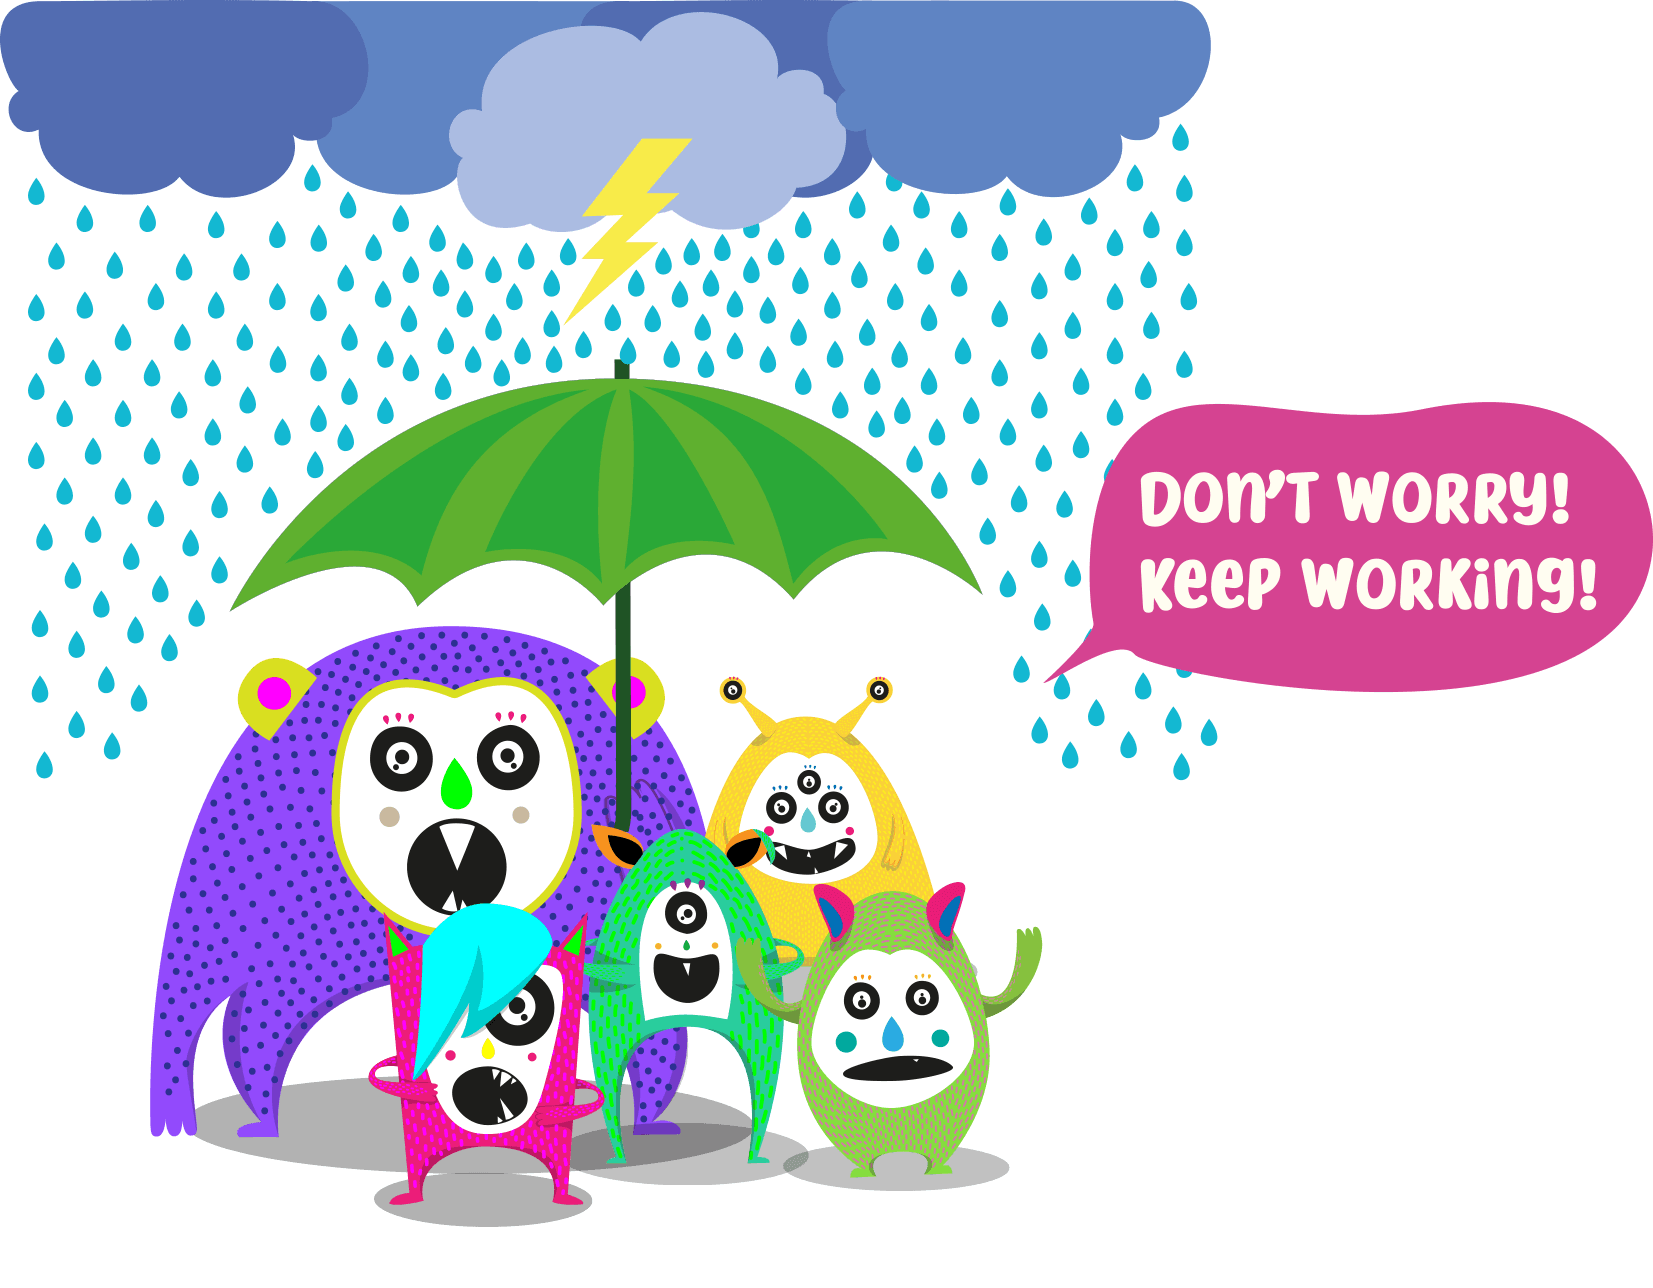
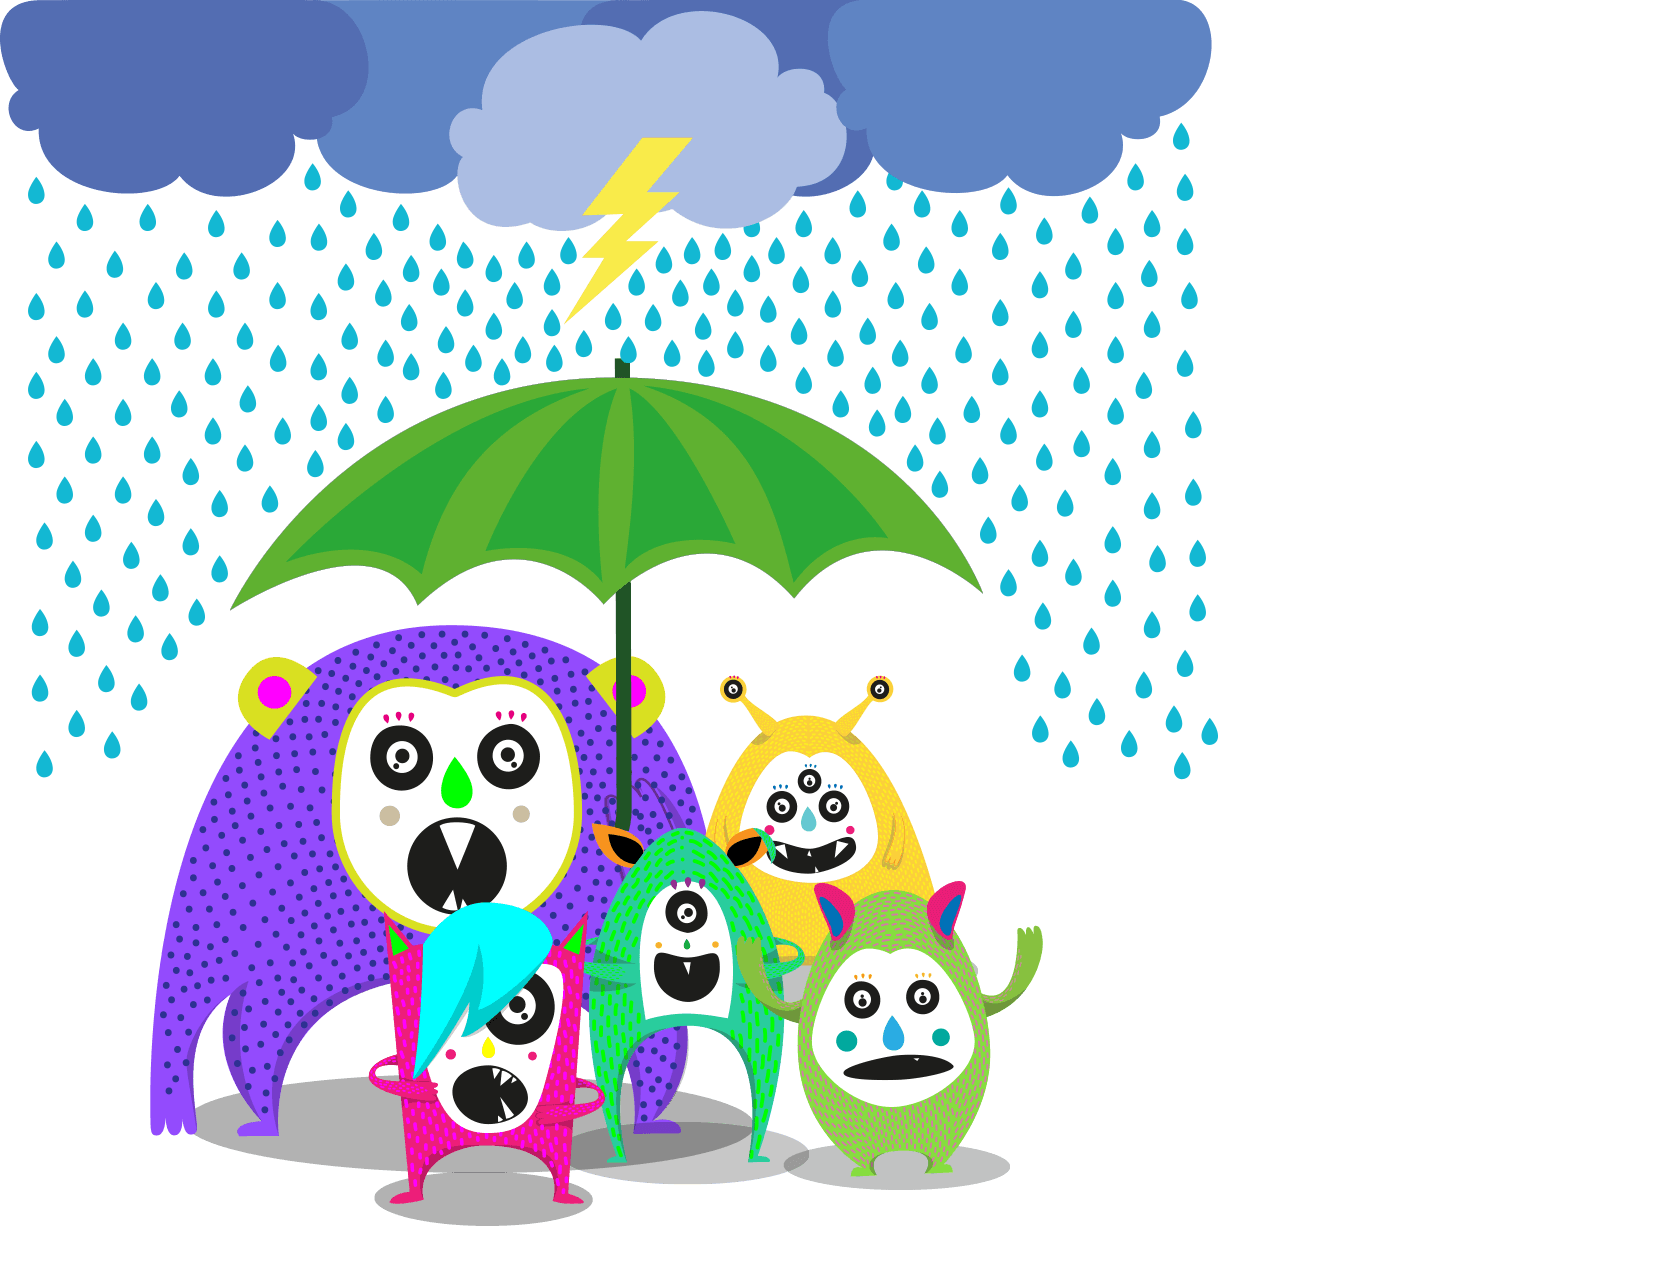
Final screen KO modifications WIP

diff --git a/style.js b/style.js
@@ -1136,11 +1136,12 @@ oxfordFlippedApp.text = {
 	modalDatepicker4 : 'Delete date',
 	dueDate : 'Due Date',
 	legend1 : 'This lesson is due in less than two days',
-	legend2 : "You didn't complete this lesson by the due date",
+	legend2 : 'You didn’t complete this lesson by the due date',
 	welldone : 'Well done!',
 	continue : 'Click on the arrow to continue',
 	premiumButton : 'Más recursos en Oxford Premium. ¡Accede ya!',
-	nomarketplaceresource: 'No hay ningún elemento que mostrar'
+	nomarketplaceresource: 'No hay ningún elemento que mostrar',
+	keepworking: 'Don’t worry, keep working to win stars!'
 }
 
 
@@ -2600,7 +2601,6 @@ oxfordFlippedApp.loadClassResources = function(updateHash) {
 		var unitNumber = $(this).attr('data-resource-unit-number'),
 				newHash = oxfordFlippedApp.config.tree[8].hash + unitNumber;
 
-		console.log(newHash);
 		window.location.hash = newHash;
 
 	});
@@ -2614,10 +2614,6 @@ oxfordFlippedApp.loadClassResourcesUnit = function(data,currentEpisode,updateHas
 			hash = oxfordFlippedApp.config.tree[currentIndex].hash;
 
 	var $resourceUnitWrapper = $('#oxfl-resources-unit-classresources');
-
-
-	console.log("LOAD RESOURCES OF UNIT " + currentEpisode);
-
 
 	// Load resources
 	var resourceList = document.createDocumentFragment();
@@ -3040,7 +3036,7 @@ oxfordFlippedApp.activityFinalScreenTest = function(currentSection) {
 				if (finalSlideLoaded) {
 					$('#oxfl-final-slide').remove();
 				}
-				console.log(grade);
+
 				if (grade > oxfordFlippedApp.config.minGrade && grade != '') {
 					if (isChallenge) {
 						var finalSlideBackground = $lastSlide.find('.image_slide').attr('src'),
@@ -3066,7 +3062,7 @@ oxfordFlippedApp.activityFinalScreenTest = function(currentSection) {
 					$('#oxfl-final-slide-stars').addClass('oxfl-final-slide-stars-'+totalStars);
 
 
-				} else {
+				} else { //FAIL
 					if (isChallenge) {
 						var finalSlideBackground = $lastSlide.find('.image_slide').attr('src'),
 								customAnimation = '<div id="lightnings"><div class="box-one"><div class="lightning-one"></div></div><div class="box-two"><div class="lightning-two"></div></div><div class="box-three"><div class="lightning-three"></div></div><div class="box-four"><div class="lightning-four"></div></div></div>',
@@ -3077,7 +3073,7 @@ oxfordFlippedApp.activityFinalScreenTest = function(currentSection) {
 						$lastSlide.addClass('oxfl-final-slide-challenge');
 					} else {
 						var customAnimation = '<div id="drops-falling"><i class="rain"></i><i class="rain"></i><i class="rain"></i><i class="rain"></i><i class="rain"></i><i class="rain"></i><i class="rain"></i><i class="rain"></i><i class="rain"></i><i class="rain"></i><i class="rain"></i><i class="rain"></i><i class="rain"></i><i class="rain"></i><i class="rain"></i><i class="rain"></i><i class="rain"></i><i class="rain"></i><i class="rain"></i><i class="rain"></i><i class="rain"></i><i class="rain"></i><i class="rain"></i><i class="rain"></i><i class="rain"></i><i class="rain"></i><i class="rain"></i><i class="rain"></i><i class="rain"></i><i class="rain"></i><i class="rain"></i><i class="rain"></i><i class="rain"></i><i class="rain"></i><i class="rain"></i><i class="rain"></i><i class="rain"></i><i class="rain"></i><i class="rain"></i><i class="rain"></i><i class="rain"></i><i class="rain"></i><i class="rain"></i><i class="rain"></i><i class="rain"></i><i class="rain"></i><i class="rain"></i><i class="rain"></i><i class="rain"></i><i class="rain"></i><i class="rain"></i><i class="rain"></i><i class="rain"></i><i class="rain"></i><i class="rain"></i><i class="rain"></i><i class="rain"></i><i class="rain"></i><i class="rain"></i><i class="rain"></i><i class="rain"></i><i class="rain"></i><i class="rain"></i><i class="rain"></i><i class="rain"></i><i class="rain"></i><i class="rain"></i><i class="rain"></i><i class="rain"></i><i class="rain"></i><i class="rain"></i><i class="rain"></i><i class="rain"></i><i class="rain"></i><i class="rain"></i><i class="rain"></i><i class="rain"></i><i class="rain"></i><i class="rain"></i><i class="rain"></i><i class="rain"></i><i class="rain"></i><i class="rain"></i><i class="rain"></i><i class="rain"></i><i class="rain"></i><i class="rain"></i><i class="rain"></i><i class="rain"></i><i class="rain"></i><i class="rain"></i><i class="rain"></i><i class="rain"></i><i class="rain"></i><i class="rain"></i><i class="rain"></i><i class="rain"></i><i class="rain"></i><i class="rain"></i><i class="rain"></i><i class="rain"></i><i class="rain"></i><i class="rain"></i><i class="rain"></i><i class="rain"></i><i class="rain"></i><i class="rain"></i><i class="rain"></i><i class="rain"></i><i class="rain"></i><i class="rain"></i><i class="rain"></i><i class="rain"></i><i class="rain"></i><i class="rain"></i><i class="rain"></i><i class="rain"></i><i class="rain"></i><i class="rain"></i><i class="rain"></i><i class="rain"></i><i class="rain"></i><i class="rain"></i><i class="rain"></i><i class="rain"></i><i class="rain"></i><i class="rain"></i><i class="rain"></i><i class="rain"></i><i class="rain"></i><i class="rain"></i><i class="rain"></i><i class="rain"></i><i class="rain"></i><i class="rain"></i><i class="rain"></i><i class="rain"></i><i class="rain"></i><i class="rain"></i><i class="rain"></i><i class="rain"></i><i class="rain"></i><i class="rain"></i><i class="rain"></i><i class="rain"></i><i class="rain"></i><i class="rain"></i><i class="rain"></i><i class="rain"></i><i class="rain"></i></div>',
-								finalSlideContent = '<div id="oxfl-final-slide">'+customAnimation+'<div class="oxfl-final-slide-stars" id="oxfl-final-slide-stars"></div><div class="oxfl-final-slide-fail-buttons"><button class="oxfl-button-bubble oxfl-button-bubble-2 oxfl-js-tryagain">'+oxfordFlippedApp.text.tryagain+'</button><div class="oxfl-separate-text">'+oxfordFlippedApp.text.or+'</div><button class="oxfl-button-bubble oxfl-button-bubble-3 oxfl-js-close-iframe-inside">'+oxfordFlippedApp.text.exit+'</button></div></div>';
+								finalSlideContent = '<div id="oxfl-final-slide">'+customAnimation+'<div class="oxfl-final-slide-stars" id="oxfl-final-slide-stars"></div><div class="oxfl-bubble-final-ko"><span>' + oxfordFlippedApp.text.keepworking + '</span></div><div class="oxfl-final-slide-fail-buttons"><button class="oxfl-button-bubble oxfl-button-bubble-2 oxfl-js-tryagain">'+oxfordFlippedApp.text.tryagain+'</button><div class="oxfl-separate-text">'+oxfordFlippedApp.text.or+'</div><button class="oxfl-button-bubble oxfl-button-bubble-3 oxfl-js-close-iframe-inside">'+oxfordFlippedApp.text.exit+'</button></div></div>';
 						$lastSlide.removeClass('oxfl-final-slide-challenge');
 					}
 					$lastSlide.addClass('oxfl-final-slide oxfl-final-slide-fail').find('.item-container').prepend(finalSlideContent);
@@ -3122,7 +3118,7 @@ oxfordFlippedApp.activityFinalScreenTest = function(currentSection) {
 
 			parent.top.oxfordFlippedApp.showIframeButton();
 			$('body').removeClass('oxfl-final-slide-on');
-			
+
 		}
 
 }

diff --git a/style.css b/style.css
@@ -3702,6 +3702,33 @@ body.body_clase.view-mode #actividad .oxfl-end-screen-tip {
     font-size: 1.8rem;
     max-width: 320px;
     margin-bottom: 10px; }
+body.body_clase.view-mode #actividad .oxfl-bubble-final-ko {
+  display: inline-flex;
+  vertical-align: middle;
+  justify-content: center;
+  flex-direction: column;
+  background: #d64391;
+  color: #ffffff;
+  font-family: "Myfrida", sans-serif;
+  font-size: 36px;
+  font-weight: bold;
+  border-radius: 40px 40px 40px 0;
+  max-width: 300px;
+  height: auto;
+  padding: 20px; }
+  body.body_clase.view-mode #actividad .oxfl-bubble-final-ko::before {
+    content: '';
+    display: block;
+    width: 0;
+    height: 0;
+    border-left: 20px solid transparent;
+    border-right: 20px solid transparent;
+    border-top: 20px solid #d64391;
+    position: absolute;
+    bottom: 0;
+    left: -20px;
+    transform: rotate(-45deg);
+    transform-origin: 0 0; }
 body.body_clase.view-mode.oxfl-final-slide-on .content-wrapper {
   padding-top: 0;
   padding-bottom: 0; }

diff --git a/scss/pages/_activities_final_2_test.scss b/scss/pages/_activities_final_2_test.scss
@@ -101,6 +101,36 @@ body.body_clase.view-mode {
         margin-bottom: 10px;
       }
     }
+
+    .oxfl-bubble-final-ko {
+      display: inline-flex;
+      vertical-align: middle;
+      justify-content: center;
+      flex-direction: column;
+      background: $color_23;
+      color: $negative_color;
+      font-family: $font_family_2;
+      font-size: 36px;
+      font-weight: bold;
+      border-radius: 40px 40px 40px 0;
+      max-width: 300px;
+      height: auto;
+      padding: 20px;
+      &::before {
+        content: '';
+        display: block;
+        width: 0;
+        height: 0;
+        border-left: 20px solid transparent;
+        border-right: 20px solid transparent;
+        border-top: 20px solid $color_23;
+        position: absolute;
+        bottom: 0;
+        left: -20px;
+        transform: rotate(-45deg);
+        transform-origin: 0 0;
+      }
+    }
   }
 
   &.oxfl-final-slide-on {

diff --git a/scss/commons/_config.scss b/scss/commons/_config.scss
@@ -42,6 +42,7 @@ $color_20: #1b1464;
 $color_21: #662d91;
 
 $color_22: #2cd66e;
+$color_23: #d64391;
 
 $home_menu_background_color: $background_color;
 
